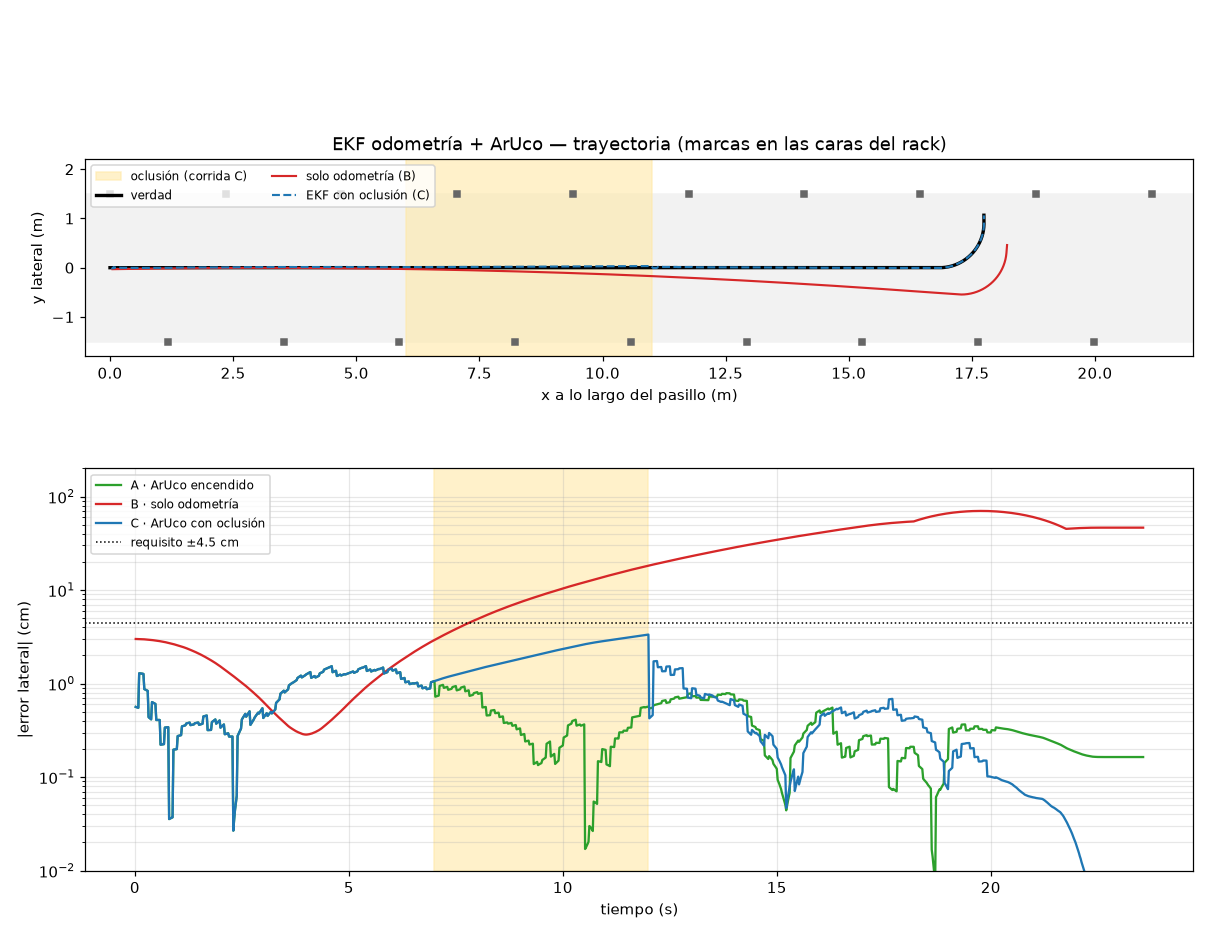
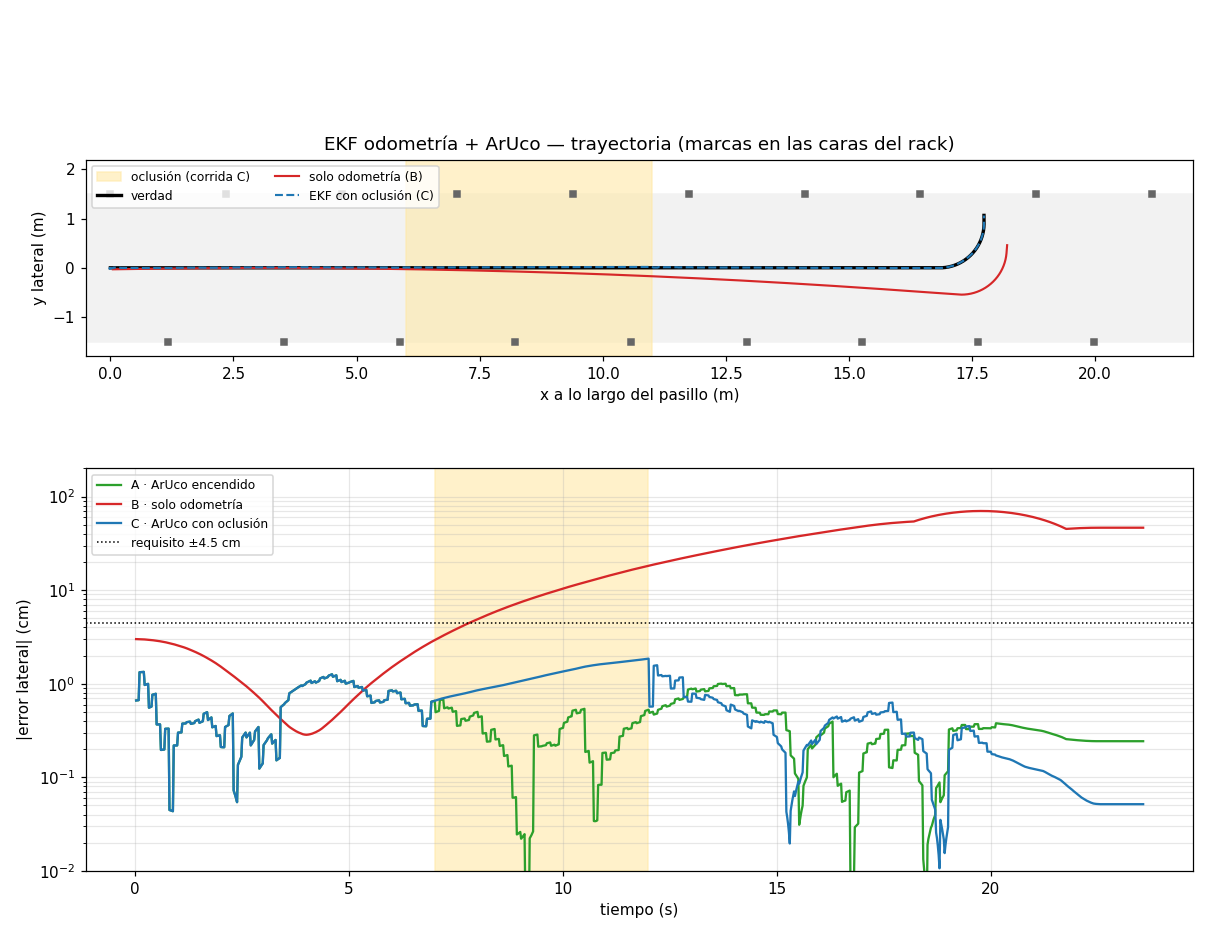
percepcion: signo de yaw en ekf.py corregido contra marca ArUco real (C920)
Primera prueba con hardware: calibración (RMS 0.724 px) y detección pasan el
control de falsación (sin --calib da 0.73 m, marca al doble da 1.99 m, para una
marca fija a 1.00 m real). lateral_m coincide con la convención documentada
(+derecha); yaw_deg no: girar la marca con el borde derecho alejándose da
-42.4° real, pero pose_desde_marca/marca_vista_desde predecían +alpha. El
sintético no podía agarrar este bug porque genera y consume la medición con el
mismo par de funciones (álgebra inversa autoconsistente). Corregido el signo en
las dos funciones; sim_sintetico.py sigue dando PASA (30/30 en las tres
pruebas). Detalle con la tabla decía/es/qué lo tumbó en percepcion/LEEME.md.

diff --git a/percepcion/ekf.py b/percepcion/ekf.py
@@ -133,8 +133,14 @@ class EKF:
 # respecto de mirarla de frente). Con el mapa (id → x, y, θ de la normal de la marca, que
 # apunta hacia el pasillo) y el montaje de la cámara en el equipo se deduce la pose.
 #
-# OJO: los signos de lateral y yaw están definidos acá, en 2D. Hay que verificarlos contra
-# detector_aruco.py con una marca real en el banco antes de usarlo con datos de verdad.
+# Verificado contra marca real (03-nov-2026, C920, calib.npz, ver percepcion/LEEME.md):
+# lateral SÍ coincidía (+derecha, −izquierda). yaw NO: la fórmula daba +α girando la marca de
+# forma que su borde derecho (visto desde la cámara) se aleja (bisagra en el borde izquierdo),
+# y el detector real, para ese mismo giro, da −42.4°. Signo de yaw CORREGIDO acá (cam_th usa
+# +yaw, no −yaw; yaw queda π + cam_th − mth, no mth − π − cam_th). Round-trip interno seguía
+# pasando con el signo viejo —por eso sim_sintetico.py no lo agarró— porque pose_desde_marca y
+# marca_vista_desde son álgebra inversa entre sí: cualquier convención consistente entre las dos
+# pasa el synthetic aunque esté al revés respecto del detector real.
 
 def _rot(a):
     c, s = math.cos(a), math.sin(a)
@@ -146,7 +152,7 @@ def pose_desde_marca(marca, dist, lateral, yaw, montaje):
     (respecto del eje de carga). Devuelve la pose (x, y, θ) del equipo."""
     mx, my, mth = marca
     cx, cy, cth = montaje
-    cam_th = mth - math.pi - yaw                       # yaw = 0 → la marca mira de frente a la cámara
+    cam_th = mth - math.pi + yaw                       # yaw = 0 → la marca mira de frente a la cámara
     cam_p = np.array([mx, my]) - _rot(cam_th) @ np.array([dist, -lateral])
     th = cam_th - cth
     p = cam_p - _rot(th) @ np.array([cx, cy])
@@ -161,7 +167,7 @@ def marca_vista_desde(pose, marca, montaje):
     cam_p = np.array([x, y]) + _rot(th) @ np.array([cx, cy])
     rel = _rot(-cam_th) @ (np.array(marca[:2]) - cam_p)
     dist, lateral = rel[0], -rel[1]
-    yaw = envolver(marca[2] - math.pi - cam_th)
+    yaw = envolver(math.pi + cam_th - marca[2])
     return dist, lateral, yaw
 
 

diff --git a/percepcion/LEEME.md b/percepcion/LEEME.md
@@ -132,3 +132,67 @@ sector, niveles a 1.38 m); la cámara verifica el hueco antes de extender (`veri
 python percepcion/calibrar_camara.py --cuadro-mm 22      # el cuadro MEDIDO con regla
 python percepcion/detector_aruco.py --calib calib.npz --marca 0.15
 ```
+
+
+## Primera prueba con cámara real — 03-nov-2026, en superspeed
+
+Primera corrida de `detector_aruco.py` y `calibrar_camara.py` contra hardware de verdad (antes
+todo estaba validado solo en sintético). Cámara **Logitech C920** (`/dev/video4`, índice 4 de
+dos detectadas; la otra es una USB2.0 FHD genérica en índice 0). `python3-opencv` del sistema
+es 4.5.4 (sin `ArucoDetector`); se armó `.venv` con `opencv-contrib-python` 5.0.0 — necesario en
+cualquier máquina nueva antes de correr nada de esta carpeta.
+
+**Calibración** (tablero 9×6, cuadro medido 22.0 mm):
+
+| Intento | Vistas | RMS | Veredicto |
+|---|---|---|---|
+| 1 | 15 | 3.873 px | **malo** — poca variedad de pose, `cx` corrido 75 px del centro esperado |
+| 2 | 15 | 0.724 px | aceptable (no <0.5 ideal, pero `fx≈fy` 623.4/623.5 y `cx,cy` cerca del centro) |
+
+`calib.npz` final: fx 623.4 · fy 623.5 · cx 349.1 · cy 252.4 · FOV horizontal 54.3°. La primera
+corrida se repitió variando más la distancia, la inclinación (~30-45°) y cubriendo las cuatro
+esquinas del cuadro — ahí bajó el RMS.
+
+**Detección y escala**, marca de 15.00 cm (medida con regla, coincide con el nominal), a 1.00 m
+real (medida con cinta): el detector reportó **1.00 m exacto**.
+
+**Control de falsación** (misma marca, sin moverla de 1.00 m real):
+
+| Variante | Predicho | Medido |
+|---|---|---|
+| sin `--calib` (FOV sintético 70°, más ancho que el real 54.3° → foco más corto) | ~0.73 m | **0.73 m** |
+| con `--calib`, `--marca 0.30` (el doble del real) | ~2.00 m | **1.99 m** |
+
+Los dos controles cambiaron en la dirección predicha. La prueba mide lo que dice medir.
+
+**Signos para el EKF — prueba de 3 pasos, marca a ~1 m, cámara C920 fija:**
+
+| Paso | Maniobra | `lateral_m` / `yaw_deg` medido |
+|---|---|---|
+| 1 | marca a la derecha de la cámara | lateral **+0.288** |
+| 2 | marca a la izquierda | lateral **−0.446** |
+| 3 | marca girada sobre su eje vertical, borde derecho (visto desde la cámara) alejándose, bisagra en el borde izquierdo | yaw **−42.4°** |
+
+**Lateral: coincide** con la convención documentada ("+ a la derecha") en `detector_aruco.py` y
+`ekf.py`. No se tocó.
+
+**Yaw: NO coincidía.** `pose_desde_marca`/`marca_vista_desde` (antes del fix) predicen **+α**
+para la maniobra del paso 3 (borde derecho alejándose); el detector real da **−42.4°**. Se
+corrigió el signo en `percepcion/ekf.py`:
+
+| Decía | Es | Qué lo tumbó |
+|---|---|---|
+| `cam_th = mth − π − yaw` (en `pose_desde_marca`) | `cam_th = mth − π + yaw` | la maniobra del paso 3 da yaw negativo en el detector real; con el signo viejo la fórmula pedía positivo para ese mismo giro |
+| `yaw = mth − π − cam_th` (en `marca_vista_desde`) | `yaw = π + cam_th − mth` | es la misma corrección, por el lado inverso — las dos funciones son álgebra inversa entre sí |
+| `sim_sintetico.py` iba a agarrar este bug | **no lo agarra, y no podía**: genera la medición sintética con `marca_vista_desde` y la consume con `pose_desde_marca`/EKF — cualquier convención consistente entre las dos pasa el sintético aunque esté al revés respecto del detector real | por eso el encargo pedía explícitamente este chequeo contra hardware antes de confiar en el EKF con datos de verdad |
+
+`lateral` no se tocó porque la medición real confirmó que ya estaba bien.
+
+Tras el fix, `sim_sintetico.py` sigue dando **PASA** (A 30/30, B 30/30, C 30/30 — mismos números
+que antes, porque el sintético es autoconsistente respecto del signo: lo que cambia es que ahora
+esa convención interna coincide con la realidad, no solo consigo misma).
+
+**Pendiente:** esto corrige el signo de la fórmula geométrica 2D. Falta repetir una prueba
+equivalente con **dos** cámaras montadas en el equipo real (el `montaje` de cada una) para
+confirmar que `cth` (ángulo de montaje) también se combina con el signo correcto — hoy solo se
+probó con la cámara haciendo de "equipo" directamente (`montaje` trivial).
